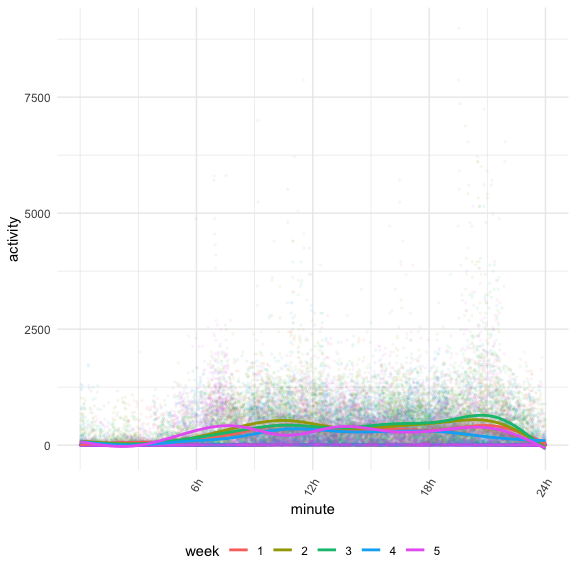
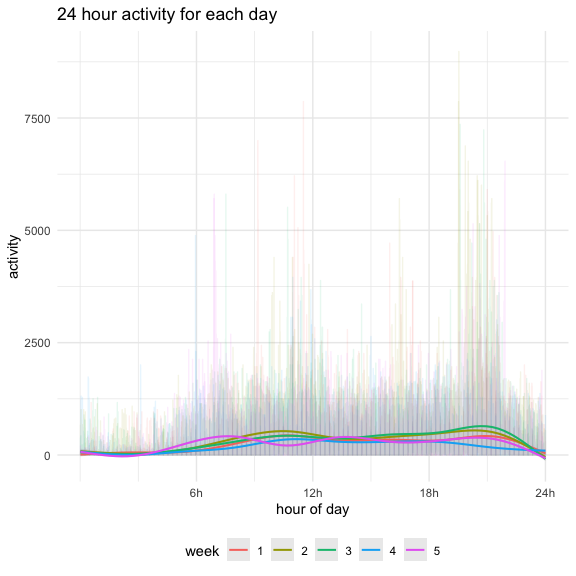
clean up!!!

diff --git a/Homework3.md b/Homework3.md
@@ -3,10 +3,6 @@ Homework 3
 Nidhi Patel
 10/6/2020
 
-#### Problem 0
-
-Follow the style rubric\!\!\!\!
-
 #### Problem 1
 
 ###### Describe data
@@ -71,6 +67,12 @@ instacart %>%
 
 <img src="Homework3_files/figure-gfm/P1plot-1.png" width="90%" />
 
+This plot resembles an exponential graph because the most ordered from
+aisles are much greater than the others. I find it interesting (and
+nice) that the most ordered items are fresh vegetables, followed by
+fresh fruit. Coming in third are packaged fruits and vegetables\!
+Instacart users seem to like their vegetables\!\!
+
 ###### Top orders from baking ingredients, dog food care and packaged vegetable fruits aisles
 
 ``` r
@@ -98,6 +100,13 @@ instacart %>%
 | packaged vegetables fruits | Organic Raspberries                           | 5546 |    2 |
 | packaged vegetables fruits | Organic Blueberries                           | 4966 |    3 |
 
+Light brown sugar, Snack Sticks Chicken & Rice Recipe dog treats and
+organic baby spinach are the most ordered items from baking ingredients,
+dog food care and packaged vegetable fruits aisles. Packaged fruits and
+vegetables are more ordere than the other two. Dog food care is the
+least ordered from aise; maybe dog lovers probably buy treats while
+walking their dogs\!\!
+
 ###### When are apples and ice cream typically ordered?
 
 ``` r
@@ -111,7 +120,7 @@ dow = tibble(
     dow,
     by = "order_dow"
   )
- 
+
 instacart %>% 
   filter(product_name %in% c("Pink Lady Apples", "Coffee Ice Cream")) %>% 
   group_by(product_name, day, order_dow) %>% 
@@ -131,6 +140,9 @@ instacart %>%
 | :--------------- | -------: | -------: | -------: | --------: | -------: | -------: | -------: |
 | Coffee Ice Cream | 13.77419 | 14.31579 | 15.38095 |  15.31818 | 15.21739 | 12.26316 | 13.83333 |
 | Pink Lady Apples | 13.44118 | 11.36000 | 11.70213 |  14.25000 | 11.55172 | 12.78431 | 11.93750 |
+
+Instacart users tend to order pink lady apples earlier in the day than
+ice cream.
 
 #### Problem 2
 
@@ -166,11 +178,11 @@ accel =
 The original version of this dataset contained 1436 columns and 25 rows.
 Activity was spread across 1440 columns and subsequently tidied into
 columns: minutes and activities. The resulting data has 50400 rows with
-`rncol(accel)` activity observations. The variables ‘week’, ‘day\_id’,
-and ‘day’ were converted to factors; ‘minute’ was converted to an
-integer. These were converted to factors to ease further wrangling and
-visualization. Activity was kept as an integer. Finally a logical
-variable of ‘weekday’ was added to differentiate weekdays from weekends.
+6 activity observations. The variables ‘week’, ‘day\_id’, and ‘day’ were
+converted to factors; ‘minute’ was converted to an integer. These were
+converted to factors to ease further wrangling and visualization.
+Activity was kept as an integer. Finally a logical variable of ‘weekday’
+was added to differentiate weekdays from weekends.
 
 ###### Total activity variable for each day
 
@@ -206,33 +218,164 @@ that the last two Saturday’s recorded the same exact amount of activity
 and they it was extremely lower than anything else recorded. I wonder if
 this outlier is a mistake?
 
+###### Plot 24-hour activity time
+
 ``` r
 accel %>% 
   group_by(day) %>% 
   ggplot(aes(x = minute, y = activity, color = week)) +
-  geom_point(alpha = 0.05, size = 0.5) +
-  geom_smooth(se = FALSE) +
+  geom_line(alpha = 0.1, size = 0.5) +
+  stat_smooth(alpha = 0.2, size = 0.7) +
   scale_x_continuous(
     breaks = c(360, 720, 1080, 1440),
     labels = c("6h", "12h", "18h", "24h")
   ) +
-  theme(axis.text.x = element_text(angle = 60, hjust = 1))
+  labs(
+    title = "24 hour activity for each day",
+    x = "hour of day"
+  )
 ```
 
     ## `geom_smooth()` using method = 'gam' and formula 'y ~ s(x, bs = "cs")'
 
 <img src="Homework3_files/figure-gfm/P2plot-1.png" width="90%" />
 
-24 hour activity time course for each day and make each week a diff
-color. COME BACK TO THIS TO MAKE IT PRETTY OKAY- i think limit the y
-axis
+``` r
+  theme(axis.text.x = element_text(angle = 60, hjust = 1))
+```
+
+    ## List of 1
+    ##  $ axis.text.x:List of 11
+    ##   ..$ family       : NULL
+    ##   ..$ face         : NULL
+    ##   ..$ colour       : NULL
+    ##   ..$ size         : NULL
+    ##   ..$ hjust        : num 1
+    ##   ..$ vjust        : NULL
+    ##   ..$ angle        : num 60
+    ##   ..$ lineheight   : NULL
+    ##   ..$ margin       : NULL
+    ##   ..$ debug        : NULL
+    ##   ..$ inherit.blank: logi FALSE
+    ##   ..- attr(*, "class")= chr [1:2] "element_text" "element"
+    ##  - attr(*, "class")= chr [1:2] "theme" "gg"
+    ##  - attr(*, "complete")= logi FALSE
+    ##  - attr(*, "validate")= logi TRUE
+
+There are 35 x 1440 points of data to this plot, so it is difficult to
+differentiate day by day. However, by the spikes and lulls of activity,
+it looks like there is less activity in the morning and more midday and
+evening. Maybe this can be attributed to sleeping during the early
+morning?
 
 #### Problem 3
+
+###### Describe data
 
 ``` r
 library(p8105.datasets)
 data("ny_noaa")
 ```
 
-This looks like a somewhat tidy dataset with 7 columns of id, date,
-precipitation, snowfall, snowed, maximum and minimum temperature.
+This dataset covers nearly 30 years of weather in New York state with 7
+columns of weather station, date, precipitation, snowfall, snow depth,
+maximum and minimum temperature. There are a total of 2595176
+observations. There are quite a new missing data points, especially in
+minimum and maximum temperature. It seems that this issue is pertinent
+to certain weather stations.
+
+###### Data cleaning
+
+``` r
+ny_noaa = ny_noaa %>%
+separate(date, into = c("year", "month", "day"), convert = TRUE) %>% 
+  mutate(
+    tmin = (as.integer(tmin) / 10),
+    tmax = (as.integer(tmax) / 10),
+    prcp = prcp / 10)
+
+mostsnow = ny_noaa %>% 
+  count(snow, sort = TRUE)
+```
+
+The most commonly observed value is 0 mm of snow. This makes a lot of
+sense because it only snows a quarter of the year\! The second and third
+most recorded values are 25 mm and 13 mm, respectively.
+
+###### Average max temp in jan and july across years
+
+``` r
+ tmax_noaa = 
+  ny_noaa %>% 
+  filter(month %in% c("1", "7")) %>% 
+  mutate(
+    month = recode(
+      month,
+      `1` = "January",
+      `7` = "July")) %>% 
+  group_by(month, year, id) %>% 
+  summarize(
+    mean_tmax = mean(tmax, na.rm = TRUE)
+  ) %>% 
+  ggplot(aes(x = year, y = mean_tmax, color = id, alpha = 0.3)) + 
+  geom_path() +
+  labs(
+    title = "average ax temperature in January in July across various NYS weather stations",
+    y = "max temperature"
+  ) +
+  facet_grid(month ~ .) +
+  theme(legend.position = "none")
+```
+
+    ## `summarise()` regrouping output by 'month', 'year' (override with `.groups` argument)
+
+There are many many weather stations across New York in this dataset,
+and therefore it is difficult to see each individual station. However,
+the intense overlapping does allow us to see the range in max
+temperatures across the state, which looks pretty consistent through the
+years. The range in temperature differs more in January across the state
+than in July. In January, there is an outlier in 1982 and a few in the
+2000’s. The most distinct outlier in the plot in July 1987 : the temp
+dropped below 15C\!\!
+
+###### tmax vs tmin
+
+``` r
+library(patchwork)
+library(ggridges)
+
+tvt = ny_noaa %>% 
+  drop_na(tmin, tmax) %>% 
+  ggplot(aes(x = tmin, y = tmax)) + 
+  geom_hex() +
+  theme(legend.position = "right") +
+  labs(
+    title = "min vs max temperatures",
+    x = "min temp (C)",
+    y = "max temp (C)"
+  )
+
+distrib = ny_noaa %>% 
+  filter(snow > 0 & snow < 100) %>% 
+  ggplot(aes(x = snow, y = year, group = year)) + 
+  geom_density_ridges(scale = 0.85) +
+  labs(
+    title = "distribution of snowfall",
+    x = "snow(mm)"
+  )
+
+tvt + distrib
+```
+
+    ## Picking joint bandwidth of 3.76
+
+<img src="Homework3_files/figure-gfm/P3patch-1.png" width="90%" />
+
+“Min vs max temperatures” shows the most common minimum and maximum
+temperature differences in New York. The most frequently recurring
+temperatures in a day are around \~23C and \~7C. I find most interesting
+min/max combination to be 60C and -29C, what a range\!\! The
+“distribution of snowfall” graph is also interesting as the last 5
+years (2005-2010), have had much fewer snowfalls of 70-80mm than the
+years prior. It is also interesting to see that there is a dip in
+snowfall at 20mm every year\!\!
